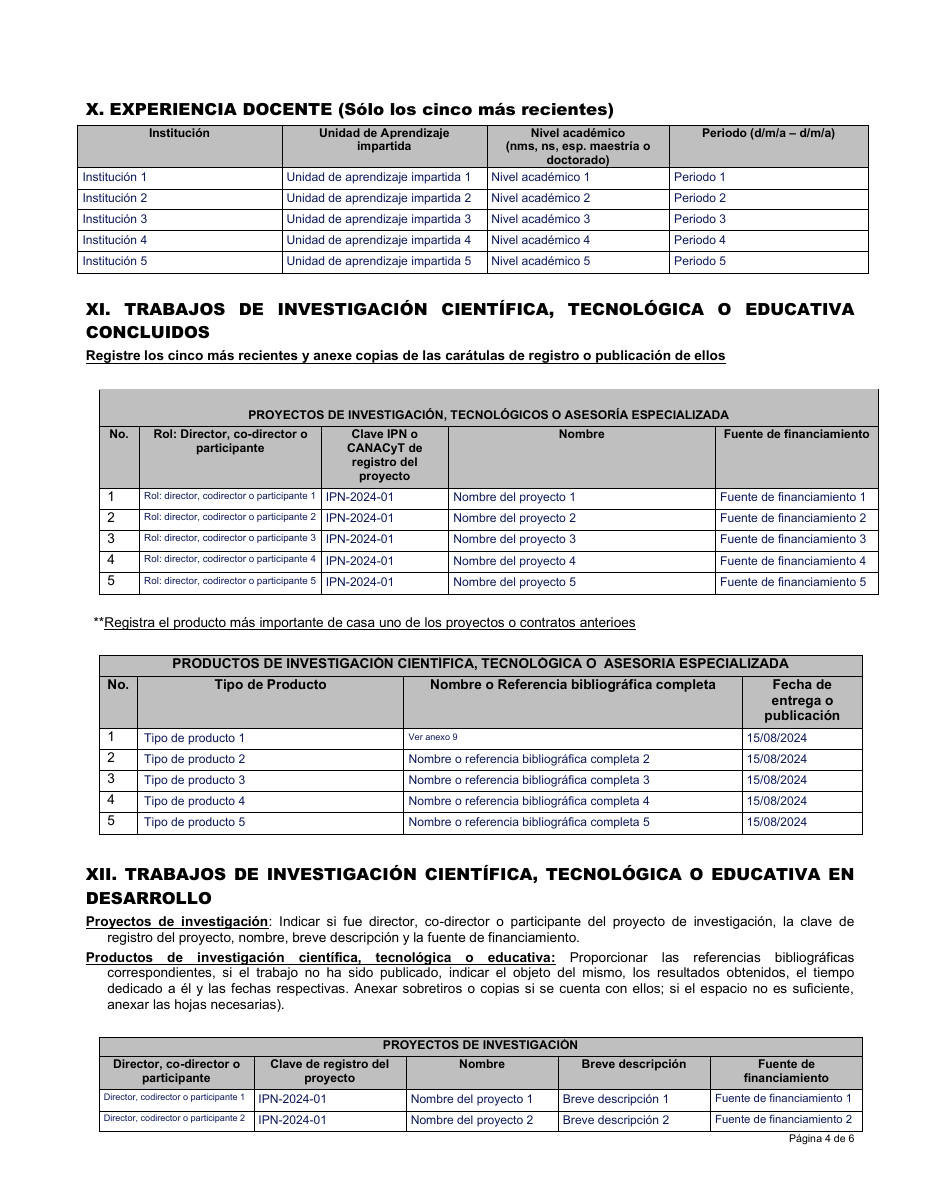
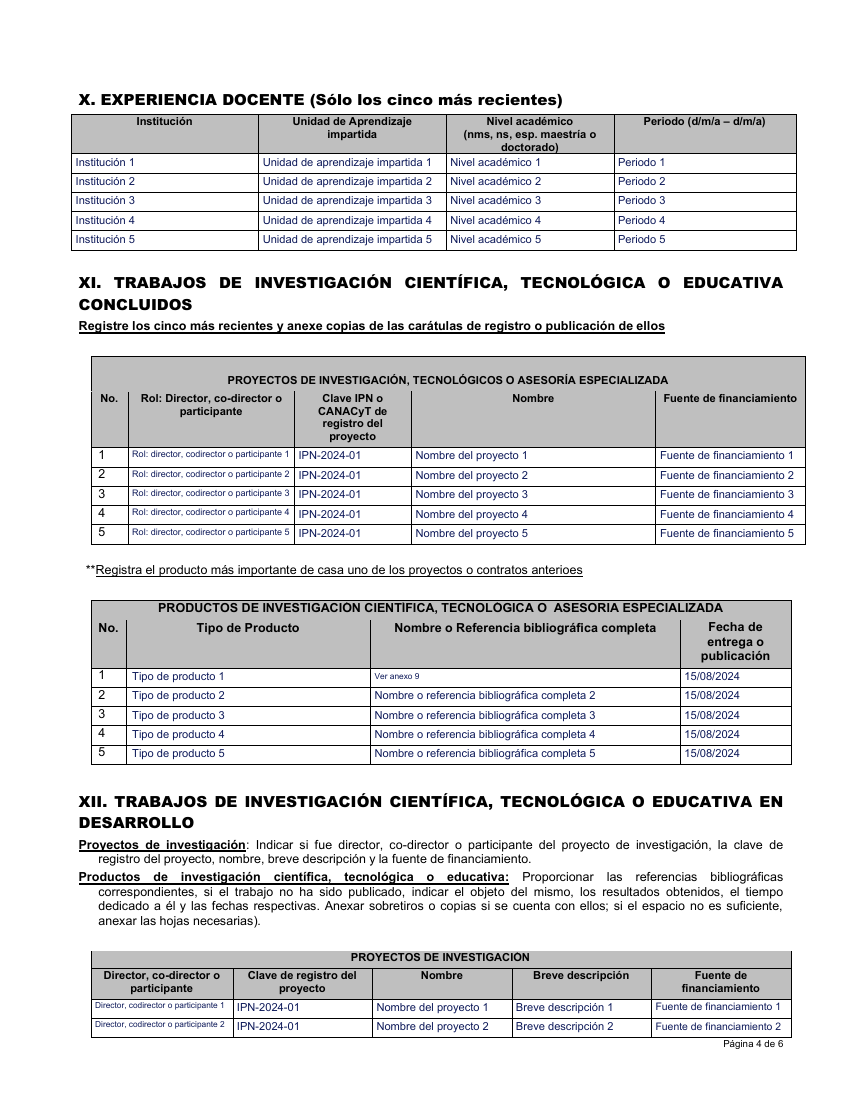
demo documentos
docs

Changed region(s): [[0.0918, 0.34, 0.9482, 0.9582], [0.0612, 0.0618, 0.9482, 0.3091], [0.7953, 0.2473, 0.9176, 0.2782]]

diff --git a/sigap-frontend/src/lib/pdf/rellenar.ts b/sigap-frontend/src/lib/pdf/rellenar.ts
@@ -49,31 +49,6 @@ function centrado(c: Ctx, t: string, x0: number, x1: number, top: number, tam = 
   c.page.drawText(t, { x: (x0 + x1) / 2 - w / 2, y: c.alto - top, size, font: c.font, color: TINTA });
 }
 
-/** Escribe un texto largo sobre renglones ya impresos (una línea por renglón). */
-function renglones(c: Ctx, t: string, x: number, ancho: number, bases: number[], tam = 9) {
-  const partir = (sz: number) => {
-    const out: string[] = [];
-    for (const p of t.split(/\n/)) {
-      let linea = "";
-      for (const palabra of p.split(/\s+/)) {
-        const prueba = linea ? `${linea} ${palabra}` : palabra;
-        if (c.font.widthOfTextAtSize(prueba, sz) > ancho) {
-          out.push(linea);
-          linea = palabra;
-        } else linea = prueba;
-      }
-      if (linea) out.push(linea);
-    }
-    return out;
-  };
-  let size = tam;
-  let lineas = partir(size);
-  while (lineas.length > bases.length && size > 6) lineas = partir((size -= 0.5));
-  lineas.slice(0, bases.length).forEach((l, i) =>
-    c.page.drawText(l, { x, y: c.alto - bases[i], size, font: c.font, color: TINTA }),
-  );
-}
-
 function parrafo(c: Ctx, t: string, x: number, top: number, ancho: number, altoMax: number, tam = 10, minTam = 6) {
   let size = tam;
   let lineas: string[] = [];
@@ -146,9 +121,14 @@ async function sip02(doc: PDFDocument, d: DatosPdf) {
     const lineas: string[] = [];
     for (const parrafo of seguro(valor).split("\n")) {
       let linea = "";
-      for (const letra of parrafo) {
-        if (font.widthOfTextAtSize(linea + letra, size) > ancho) { lineas.push(linea); linea = ""; }
-        linea += letra;
+      for (const palabra of parrafo.split(/\s+/)) {
+        if (linea && font.widthOfTextAtSize(`${linea} ${palabra}`, size) > ancho) { lineas.push(linea); linea = ""; }
+        if (font.widthOfTextAtSize(palabra, size) > ancho) {
+          for (const letra of palabra) {
+            if (font.widthOfTextAtSize(linea + letra, size) > ancho) { lineas.push(linea); linea = ""; }
+            linea += letra;
+          }
+        } else linea = linea ? `${linea} ${palabra}` : palabra;
       }
       lineas.push(linea);
     }
@@ -231,19 +211,28 @@ async function sip02(doc: PDFDocument, d: DatosPdf) {
     if (v(`sip02_${grado.id}_aplica`) !== "Sí") { marca(ctx, i === 0 ? 133.5 : i === 1 ? 131.5 : 129.5, base, 7); return; }
     celda(ctx, dato("programa"), 170, base - 13, 398, i === 2 ? 24 : 18, `${grado.titulo}: programa`);
     const institucionTop = i === 0 ? 675.3 : i === 1 ? 78.2 : 187.6;
-    celda(ctx, dato("institucion"), 170, institucionTop, 120, 11, `${grado.titulo}: institución`);
-    celda(ctx, dato("incorporada"), 354, institucionTop, 94, 11, `${grado.titulo}: incorporada a`);
-    celda(ctx, dato("pais"), 486, institucionTop, 82, 11, `${grado.titulo}: país`);
+    celda(ctx, dato("institucion"), 170, institucionTop, i === 0 ? 120 : 80, 11, `${grado.titulo}: institución`);
+    celda(ctx, dato("incorporada"), i === 0 ? 354 : 308, institucionTop, i === 0 ? 94 : 105, 11, `${grado.titulo}: incorporada a`);
+    celda(ctx, dato("pais"), i === 0 ? 486 : 446, institucionTop, i === 0 ? 82 : 122, 11, `${grado.titulo}: país`);
     const periodoTop = i === 0 ? 686.8 : i === 1 ? 87.8 : 199.1;
-    texto(ctx, dato("inicio"), 265, periodoTop + 8, 107, 7);
-    texto(ctx, dato("fin"), 464, periodoTop + 8, 103, 7);
+    if (i === 0) {
+      texto(ctx, dato("inicio"), 265, periodoTop + 8, 107, 7);
+      texto(ctx, dato("fin"), 464, periodoTop + 8, 103, 7);
+    } else {
+      celda(ctx, [dato("inicio"), dato("fin")].filter(Boolean).join(" - "), 170, periodoTop, 133, 19, `${grado.titulo}: periodo de estudios`);
+      celda(ctx, dato("tesis"), 419, periodoTop, 149, 19, `${grado.titulo}: tesis`);
+    }
     const tesisTop = i === 0 ? 697.6 : i === 1 ? 106.8 : 217.9;
-    celda(ctx, dato("titulacion"), 170, tesisTop, 133, 19, `${grado.titulo}: forma de titulación`);
-    celda(ctx, dato("tesis"), 419, tesisTop, 149, 19, `${grado.titulo}: tesis`);
+    celda(ctx, dato("titulacion"), 170, tesisTop, i === 0 ? 133 : 80, 19, `${grado.titulo}: forma de titulación`);
+    if (i === 0) celda(ctx, dato("tesis"), 419, tesisTop, 149, 19, `${grado.titulo}: tesis`);
+    else {
+      texto(ctx, dato("fechaTitulo"), 320, tesisTop + 10, 93, 7);
+      texto(ctx, dato("cedula"), 484, tesisTop + 10, 84, 7);
+    }
     const fechaTop = i === 0 ? 716.4 : i === 1 ? 125.6 : 236.9;
     texto(ctx, dato("fechaExamen"), 172, fechaTop + 9, 80, 7);
-    texto(ctx, dato("fechaTitulo"), 335, fechaTop + 9, 75, 7);
-    texto(ctx, dato("cedula"), 492, fechaTop + 9, 75, 7);
+    texto(ctx, dato("fechaTitulo"), i === 0 ? 335 : 320, fechaTop + 9, i === 0 ? 75 : 93, 7);
+    texto(ctx, dato("cedula"), i === 0 ? 492 : 484, fechaTop + 9, i === 0 ? 75 : 84, 7);
     const becaTop = i === 0 ? 742 : i === 1 ? 153 : 265;
     if (dato("beca")) marca(ctx, dato("beca") === "Sí" ? 194 : 238, becaTop, 7);
     celda(i === 0 ? c2 : ctx, dato("becaInstitucion"), 439, i === 0 ? 48.4 : becaTop - 9, 129, 11, `${grado.titulo}: institución de la beca`);
@@ -293,7 +282,7 @@ async function sip02(doc: PDFDocument, d: DatosPdf) {
   }
   texto(c3, v("cargo"), 68, 608, 122, 7);
   texto(c3, v("empresa"), 194, 608, 122, 7);
-  parrafo(c3, v("experiencia"), 320, 598, 122, 15, 6, 4);
+  celda(c3, v("experiencia"), 318, 596.5, 126, 17.5, "IX. Principales funciones del empleo actual o último");
   const periodo = [v("empleoInicio"), v("empleoFin") || (v("empleoInicio") ? "a la fecha" : "")].filter(Boolean).join(" – ");
   texto(c3, periodo, 446, 608, 121, 7);
 
